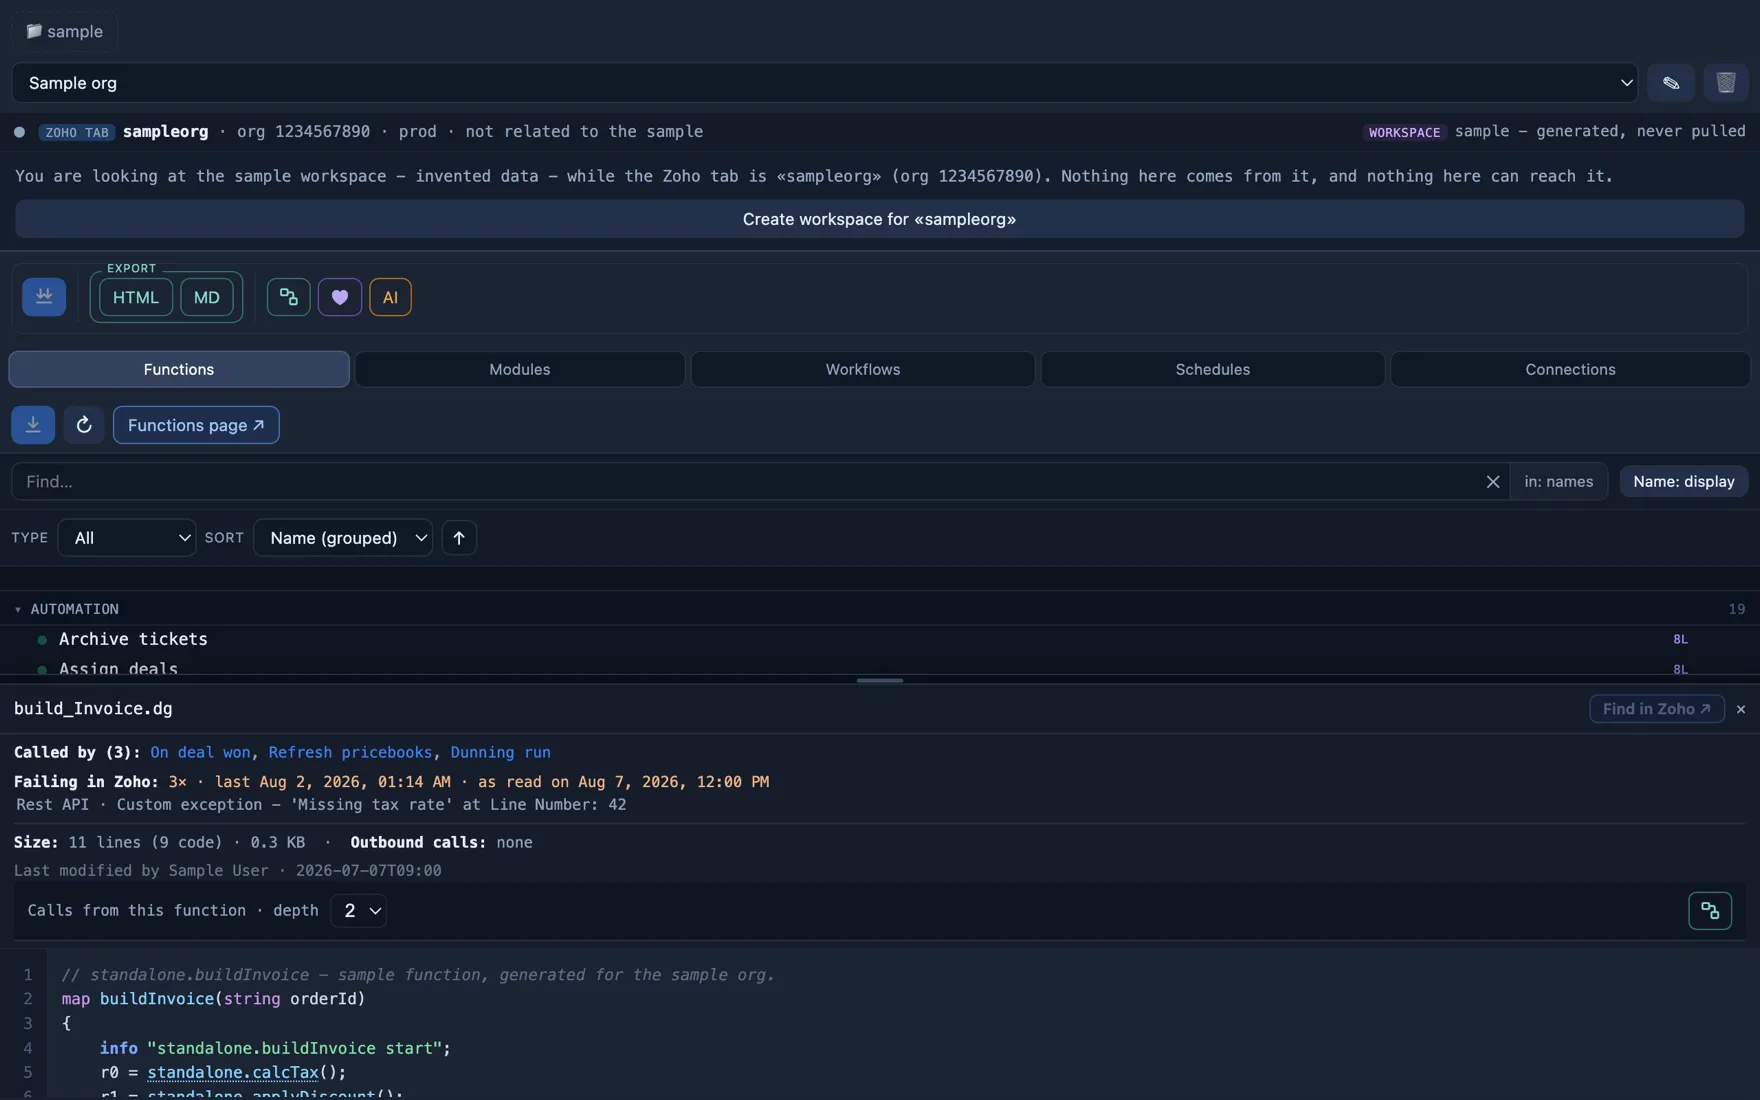
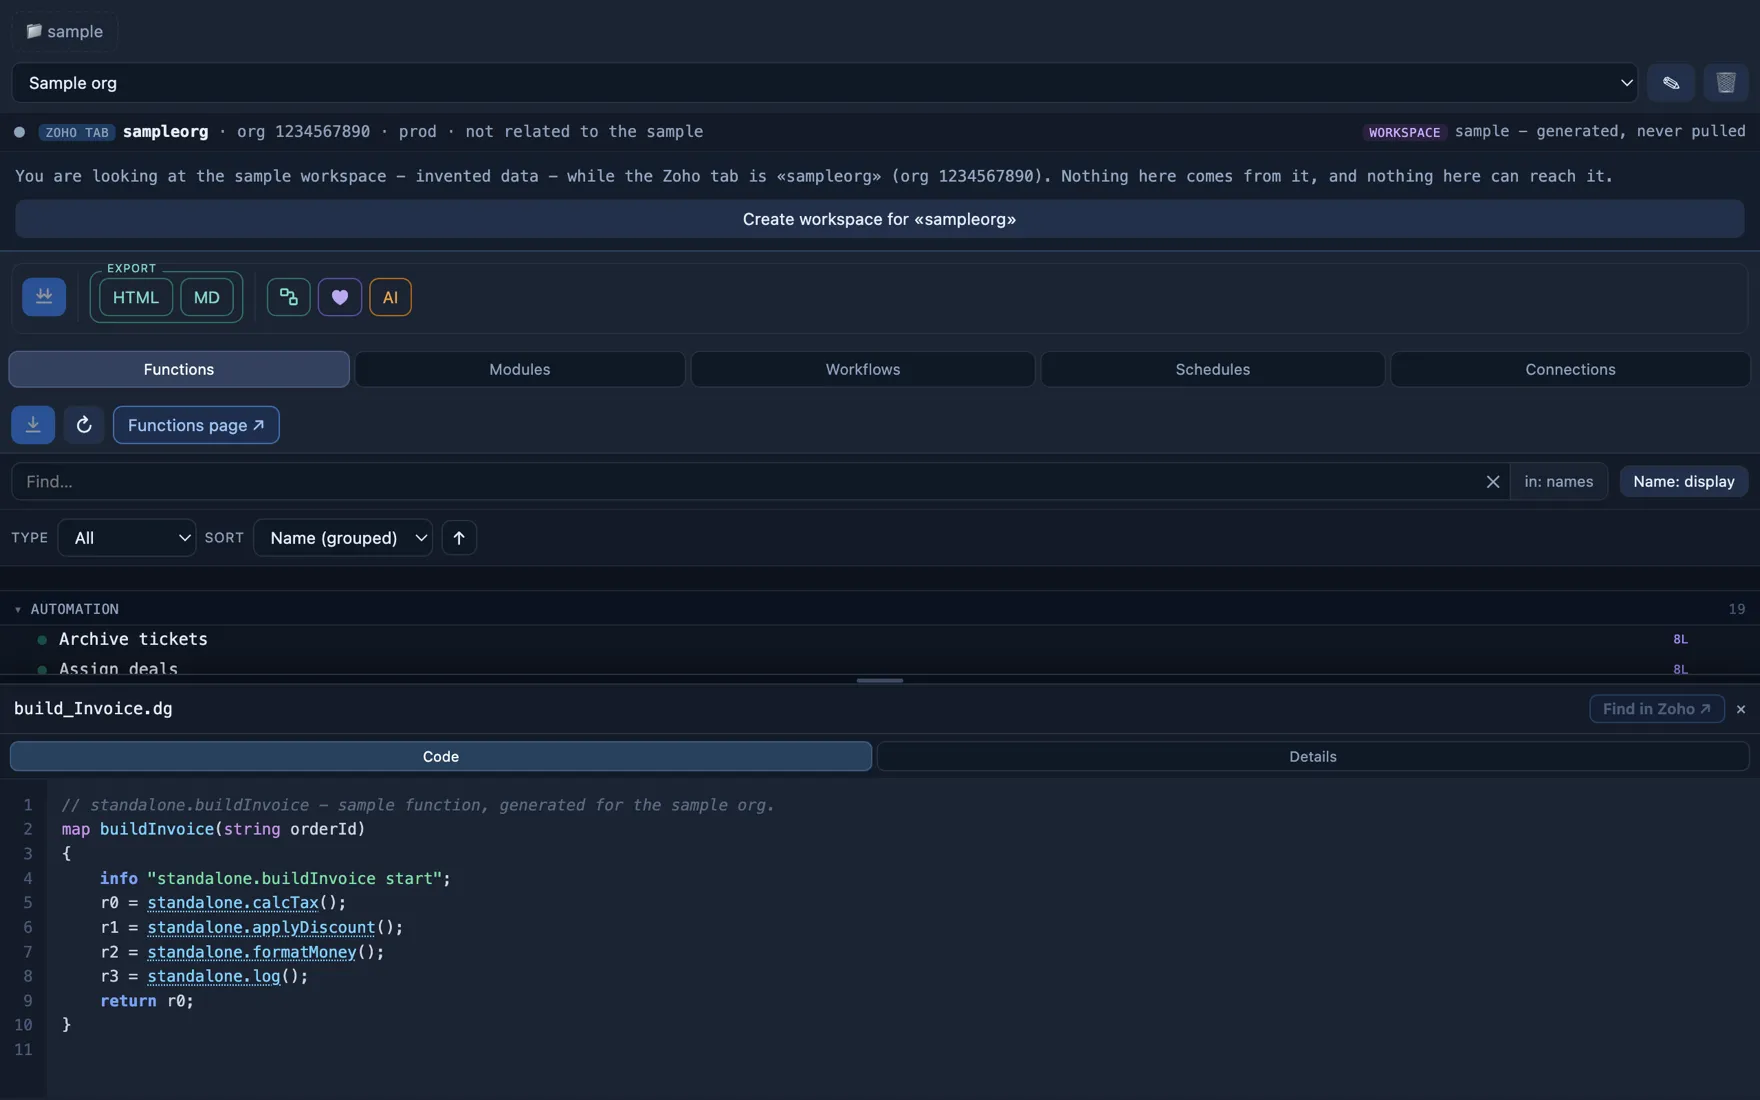
The function detail splits into Code and Details, and the search sees all three names
Two reports.

The detail pane had grown to seven blocks stacked above the code - callers,
where it is used, what is failing in Zoho, size, outbound calls, who last
changed it, and the depth control - in a 400px panel, leaving the source a slit.
It is two tabs now, Code first, and the strip is the Analytics panel's own
.dtabs so one gesture keeps one idiom across the two products. It is drawn only
for a function: a workflow has no code to switch to, and a strip with nothing on
the other side is a control with nothing to do.

And the name search saw two of three names. A function carries display_name,
the lowercased api_name slug, and `name` - the CamelCase one you actually write
in Deluge as namespace.Name(...). Searching for the name copied out of a call
found nothing. The panel derives from FN_NAMES now and the diagram window, which
was checking a different two, agrees with it - the same box behaving differently
in two windows is worse than either being wrong on its own.

Also visible in his screenshot: a function that broke the same way twice printed
the same sentence twice, which reads as two problems. One line per distinct
reason; the count above already says how many times.

Changed region(s): [[0.0, 0.6491, 0.5, 1.0], [0.2812, 0.8655, 0.4062, 0.8964], [0.9688, 0.8036, 1.0, 0.8345]]

diff --git a/apps/crm/sidepanel.js b/apps/crm/sidepanel.js
@@ -18,6 +18,7 @@ const sleep = (ms) => new Promise((r) => setTimeout(r, ms));
 let dir = null, index = new Map(), bound = null, lastCtx = null;
 let wsList = [], activeWsId = null;
 const zohoReady = () => !!(lastCtx && guardOk());
+const FN_NAMES = ['api_name', 'display_name', 'name'];   // every name a function answers to
 // Which toolbar controls read from Zoho and which only read the disk. Declared here, above every
 // reader, because `refreshContext` runs on a five-second poll and used to name `pull` by hand while
 // this list already knew there were two: the per-type Pull stayed enabled through an environment
@@ -695,7 +696,13 @@ function renderTree() {
   const shown = treeData
     .filter((e) => typeFilter === 'all' || (typeFilter === 'rest' ? e.rest : e.namespace === typeFilter))
     .filter((e) => !connFilterSet || connFilterSet.has(e.path))
-    .filter((e) => !term || (e.api_name || '').toLowerCase().includes(term) || (e.display_name || '').toLowerCase().includes(term));
+  // A function carries **three** names and Zoho means a different thing by each: `display_name`
+  // («LearningObjects - Upsert User DELETE»), `api_name` (a lowercased slug), and `name` - the
+  // CamelCase one you actually write in Deluge as `namespace.Name(...)`. The filter checked two of
+  // them, so searching for the name you had just copied out of a call found nothing. Reported.
+  // Which one is *shown* is the reader's choice (Name: display / api); which ones are *searched* is
+  // not a choice at all - all of them, or the box lies about what is in the workspace.
+    .filter((e) => !term || FN_NAMES.some((k) => String(e[k] || '').toLowerCase().includes(term)));
   const tree = $('tree'); tree.innerHTML = '';
   if (connectionFilter) {
     const b = document.createElement('div'); b.className = 'connbanner';
@@ -898,9 +905,10 @@ async function openFile(path, push = false, line = null) {
   if (push && currentPath && currentPath !== path) pvHist.push(currentPath);
   currentPath = path; updateBack(); if ($('status').className) setStatus('', '');
   $('pvreveal').style.display = 'none';   // "Go to" (auto-open in the editor) removed: it drove Zoho's localized DOM. Find is the deterministic way in.
-  $('pvfind').style.display = ''; $('pvfind').textContent = 'Find in Zoho \u2197'; $('pvfind').title = 'Filter the Zoho functions list to this function - then open it from Zoho\'s own \u22ef menu (Edit / Delete / Duplicate\u2026)'; $('pvbody').style.display = 'flex'; $('pvtable').style.display = 'none';
+  $('pvfind').style.display = ''; $('pvfind').textContent = 'Find in Zoho \u2197'; $('pvfind').title = 'Filter the Zoho functions list to this function - then open it from Zoho\'s own \u22ef menu (Edit / Delete / Duplicate\u2026)'; $('pvtable').style.display = 'none';
   document.querySelectorAll('.f').forEach((x) => x.setAttribute('aria-selected', x.dataset.path === path));
   setPvName(path.split('/').pop(), path); $('pvcallers').className = ''; $('pvcallers').textContent = '';
+  pvTabsFor('function');
   let code; try { code = await readFile(path); } catch (e) { setStatus(MSG.readFailed + e.message, 'bad'); return; }
   const lines = code.split('\n').length;
   $('pvgutter').textContent = Array.from({ length: lines }, (_, k) => k + 1).join('\n');
@@ -912,6 +920,27 @@ async function openFile(path, push = false, line = null) {
   if (line) { const lh = parseFloat(getComputedStyle($('pvcode')).lineHeight) || 16; $('pvbody').scrollTop = Math.max(0, (line - 3) * lh); }
   showCallers(path);
 }
+/** Code or Details, for a function. Everything that is not the source moved behind the second tab:
+ *  it had grown to seven blocks stacked above a 400px-wide code view, and the code is what people
+ *  open a function for. `Code` is the default for that reason, and the choice is not remembered -
+ *  it is one click, and a remembered mode that opens on Details would hide the source. */
+let pvTab = 'code';
+function setPvTab(which) {
+  pvTab = which === 'info' ? 'info' : 'code';
+  $('pvtab_code').classList.toggle('active', pvTab === 'code');
+  $('pvtab_info').classList.toggle('active', pvTab === 'info');
+  $('pvbody').style.display = pvTab === 'code' ? 'flex' : 'none';
+  $('pvcallers').style.display = pvTab === 'info' ? '' : 'none';
+}
+/** The strip is for functions only, and showing it resets to Code - opening a second function and
+ *  landing on the Details of the first one's tab choice is the stale-projection problem in miniature. */
+function pvTabsFor(kind) {
+  const on = kind === 'function';
+  $('pvtabs').hidden = !on;
+  if (on) setPvTab('code');
+  else { $('pvcallers').style.display = ''; }
+}
+
 async function showCallers(path) {
   const box = $('pvcallers'); box.textContent = 'computing references…'; box.className = 'show';
   try {
@@ -945,7 +974,11 @@ async function showCallers(path) {
         html += `<div class="failwrap"><b>Failing in Zoho:</b> ${escHtml(String(total))}\u00d7`
           + (last ? ` \u00b7 last ${escHtml(fmtDate(last))}` : '')
           + ` \u00b7 as read on ${escHtml(fmtDate(fx.at))}`
-          + mine.map((f) => `<div class="failrow">${escHtml(f.componentType || '?')} \u00b7 ${escHtml(f.reason || '')}</div>`).join('')
+          // One line per distinct reason. Zoho returns a row per failing invocation, so a function
+          // that broke the same way twice came back with the same sentence printed twice - which
+          // reads as two problems and is one. The count above already says how many times.
+          + [...new Map(mine.map((f) => [`${f.componentType}|${f.reason}`, f])).values()]
+              .map((f) => `<div class="failrow">${escHtml(f.componentType || '?')} \u00b7 ${escHtml(f.reason || '')}</div>`).join('')
           + '</div>';
       }
     } catch (_) { /* no reading yet: say nothing rather than claim none */ }
@@ -3826,7 +3859,7 @@ async function openSchedule(e) {
   currentPath = e.path; pvHist = []; updateBack();
   document.querySelectorAll('.f').forEach((x) => x.setAttribute('aria-selected', x.dataset.path === e.path));
   setPvName(e.name, e.path);
-  $('pvcallers').className = ''; $('pvcallers').textContent = '';   // else the last function's callers/connections bar lingers
+  $('pvcallers').className = ''; $('pvcallers').textContent = ''; pvTabsFor(null);   // else the last function's callers/connections bar lingers
   $('pvreveal').style.display = 'none'; $('pvfind').style.display = 'none';
   $('pvbody').style.display = 'none'; $('pvtable').style.display = 'block';
   const fnLink = `<span class="wf-fn" data-fnid="${escA(e.function_id || '')}" data-fnname="${escA(e.function_name || '')}" title="Open the function">\u0192 ${escHtml(e.function_name || '?')}</span>`;
@@ -4070,7 +4103,7 @@ function openConnection(c) {
   currentPath = c.path; pvHist = []; updateBack();
   document.querySelectorAll('.f').forEach((x) => x.setAttribute('aria-selected', x.dataset.path === c.path));
   setPvName(c.label || c.name, c.path);
-  $('pvcallers').className = ''; $('pvcallers').textContent = '';   // else the last function's callers/connections bar lingers
+  $('pvcallers').className = ''; $('pvcallers').textContent = ''; pvTabsFor(null);   // else the last function's callers/connections bar lingers
   $('pvreveal').style.display = 'none'; $('pvfind').style.display = 'none';
   $('pvbody').style.display = 'none'; $('pvtable').style.display = 'block';
   const nm = (n) => nameMode === 'display' ? (n.display_name || n.name) : (n.api_name || n.name);
@@ -4202,7 +4235,7 @@ async function openWorkflow(e) {
   currentPath = e.path; pvHist = []; updateBack();
   document.querySelectorAll('.f').forEach((x) => x.setAttribute('aria-selected', x.dataset.path === e.path));
   setPvName(e.name, e.path);
-  $('pvcallers').className = ''; $('pvcallers').textContent = '';   // else the last function's callers/connections bar lingers
+  $('pvcallers').className = ''; $('pvcallers').textContent = ''; pvTabsFor(null);   // else the last function's callers/connections bar lingers
   $('pvreveal').style.display = ''; $('pvreveal').textContent = 'Go to \u2197'; $('pvreveal').title = 'Open the workflow in Zoho'; $('pvfind').style.display = 'none';
   $('pvbody').style.display = 'none'; $('pvtable').style.display = 'block';
   $('pvtable').innerHTML = renderWorkflowDetail(rule);
@@ -4353,6 +4386,7 @@ loadScope();
 // again whenever either can have moved: a workspace opening (different org, different roles) and a
 // pull learning something new both call renderTabs themselves.
 loadTabPrefs().then(renderTabs);
+document.querySelectorAll('#pvtabs .dtab').forEach((b) => (b.onclick = () => setPvTab(b.dataset.pv)));
 $('pull').onclick = pullEverything; $('pullone').onclick = pullCurrent; $('health').onclick = toggleHealth; $('healthx').onclick = closeHealth; $('missing').onclick = () => (viewMode === 'workflows' ? downloadMissingWf() : downloadMissing()); $('export').onclick = exportHtml; $('exportmd').onclick = exportMarkdown; $('graph').onclick = () => (viewMode === 'modules' ? openSchemaGraph() : openGraph()); $('refresh').onclick = async () => { if (root && !rootGranted) { await grantRoot(); return; } await rebuildActive(); };
 $('ainotex').onclick = () => $('ainote').classList.remove('show');   // hidden for this session of the chat, back on next open
 $('ailockgo').onclick = aiUnlock; $('ailockpass').onkeydown = (e) => { if (e.key === 'Enter') aiUnlock(); };

diff --git a/apps/crm/sidepanel.html b/apps/crm/sidepanel.html
@@ -300,6 +300,11 @@
   .wfd{padding:8px 10px;font:12px var(--mono);line-height:1.6}
   .wfrow{margin:2px 0}.wfrow .wk{color:var(--muted);display:inline-block;min-width:66px}
   /* What Zoho reports about a function at runtime, under what the mirror says about it statically. */
+  /* The detail pane's two tabs. Same class and same look as the Analytics panel's, because it is
+     the same gesture in the same place. */
+  .dtabs{display:flex;gap:3px;padding:5px 7px;border-bottom:1px solid var(--line);background:#131a27}
+  .dtab{flex:1 1 auto;background:#0f1826;border:1px solid var(--border);color:var(--muted);padding:4px 3px;border-radius:6px;cursor:pointer;font-size:10.5px;white-space:nowrap;overflow:hidden;text-overflow:ellipsis}
+  .dtab.active{background:#28405c;border-color:#3d5a7e;color:#fff}
   .failwrap{margin-top:5px;color:#f0b483}
   .failrow{color:var(--muted);margin-left:2px}
   .wfcond{margin:8px 0;padding:7px 9px;border:1px solid var(--border);border-radius:7px;background:#141b29}
@@ -483,6 +488,16 @@
         <span class="reveal" id="pvreveal" title="Open in Zoho">Open in Zoho ↗</span>
         <span class="reveal2" id="pvfind" title="Filter in the Zoho list (for the ⋯ menu: Edit / Delete / Duplicate…)">Find ↗</span>
         <span class="x" id="pvx" title="Close">✕</span>
+      </div>
+      <!-- Two tabs rather than one long column. The detail of a function had grown to its callers,
+           where it is used, what is failing in Zoho, its size, its outbound calls, who last changed
+           it and the depth control - all of that above the code, in a 400px panel, leaving the code
+           a slit. The strip is the Analytics panel's own `.dtabs`, so one gesture keeps one idiom
+           across the two products. It is drawn only for a function: a workflow has no code to
+           switch to, and a strip with nothing on the other side is a control with nothing to do. -->
+      <div class="dtabs" id="pvtabs" hidden>
+        <button class="dtab active" id="pvtab_code" data-pv="code">Code</button>
+        <button class="dtab" id="pvtab_info" data-pv="info">Details</button>
       </div>
       <div id="pvcallers"></div>
       <div id="pvbody"><pre id="pvgutter"></pre><pre id="pvcode"></pre></div>

diff --git a/apps/crm/graphview.js b/apps/crm/graphview.js
@@ -276,7 +276,9 @@ function passKind(n) {
 }
 function pass(n, q) {
   if (!passKind(n)) return false;
-  return !q || n.name.toLowerCase().includes(q) || (n.display_name || '').toLowerCase().includes(q);
+  // Three names, not two - see the panel's FN_NAMES. `api_name` was missing here, so the same
+  // search behaved differently in the two windows, which is worse than either being wrong.
+  return !q || [n.name, n.display_name, n.api_name].some((x) => String(x || '').toLowerCase().includes(q));
 }
 // The chips choose what the window is looking at, so all four views follow them. The search box
 // narrows the *list* only: hiding the diagram down to one node as you type would be a different

diff --git a/tools/twincheck.py b/tools/twincheck.py
@@ -117,6 +117,8 @@ EXPECTED = {
 }
 EXPECTED_SOLO = {
     '.bar': 'the CRM has a per-mode button row; Analytics has no modes',
+    '.dtab:disabled': 'Analytics disables a detail tab when the selection cannot be projected into '
+                      'it; the CRM has two - Code and Details - and both always apply to a function',
     '.ck b': 'the Analytics export dialog bolds the section name inside each label',
     '.empty': 'Analytics renders empty states as .empty blocks; the CRM uses its own markup',
     '.empty b': 'ditto',
